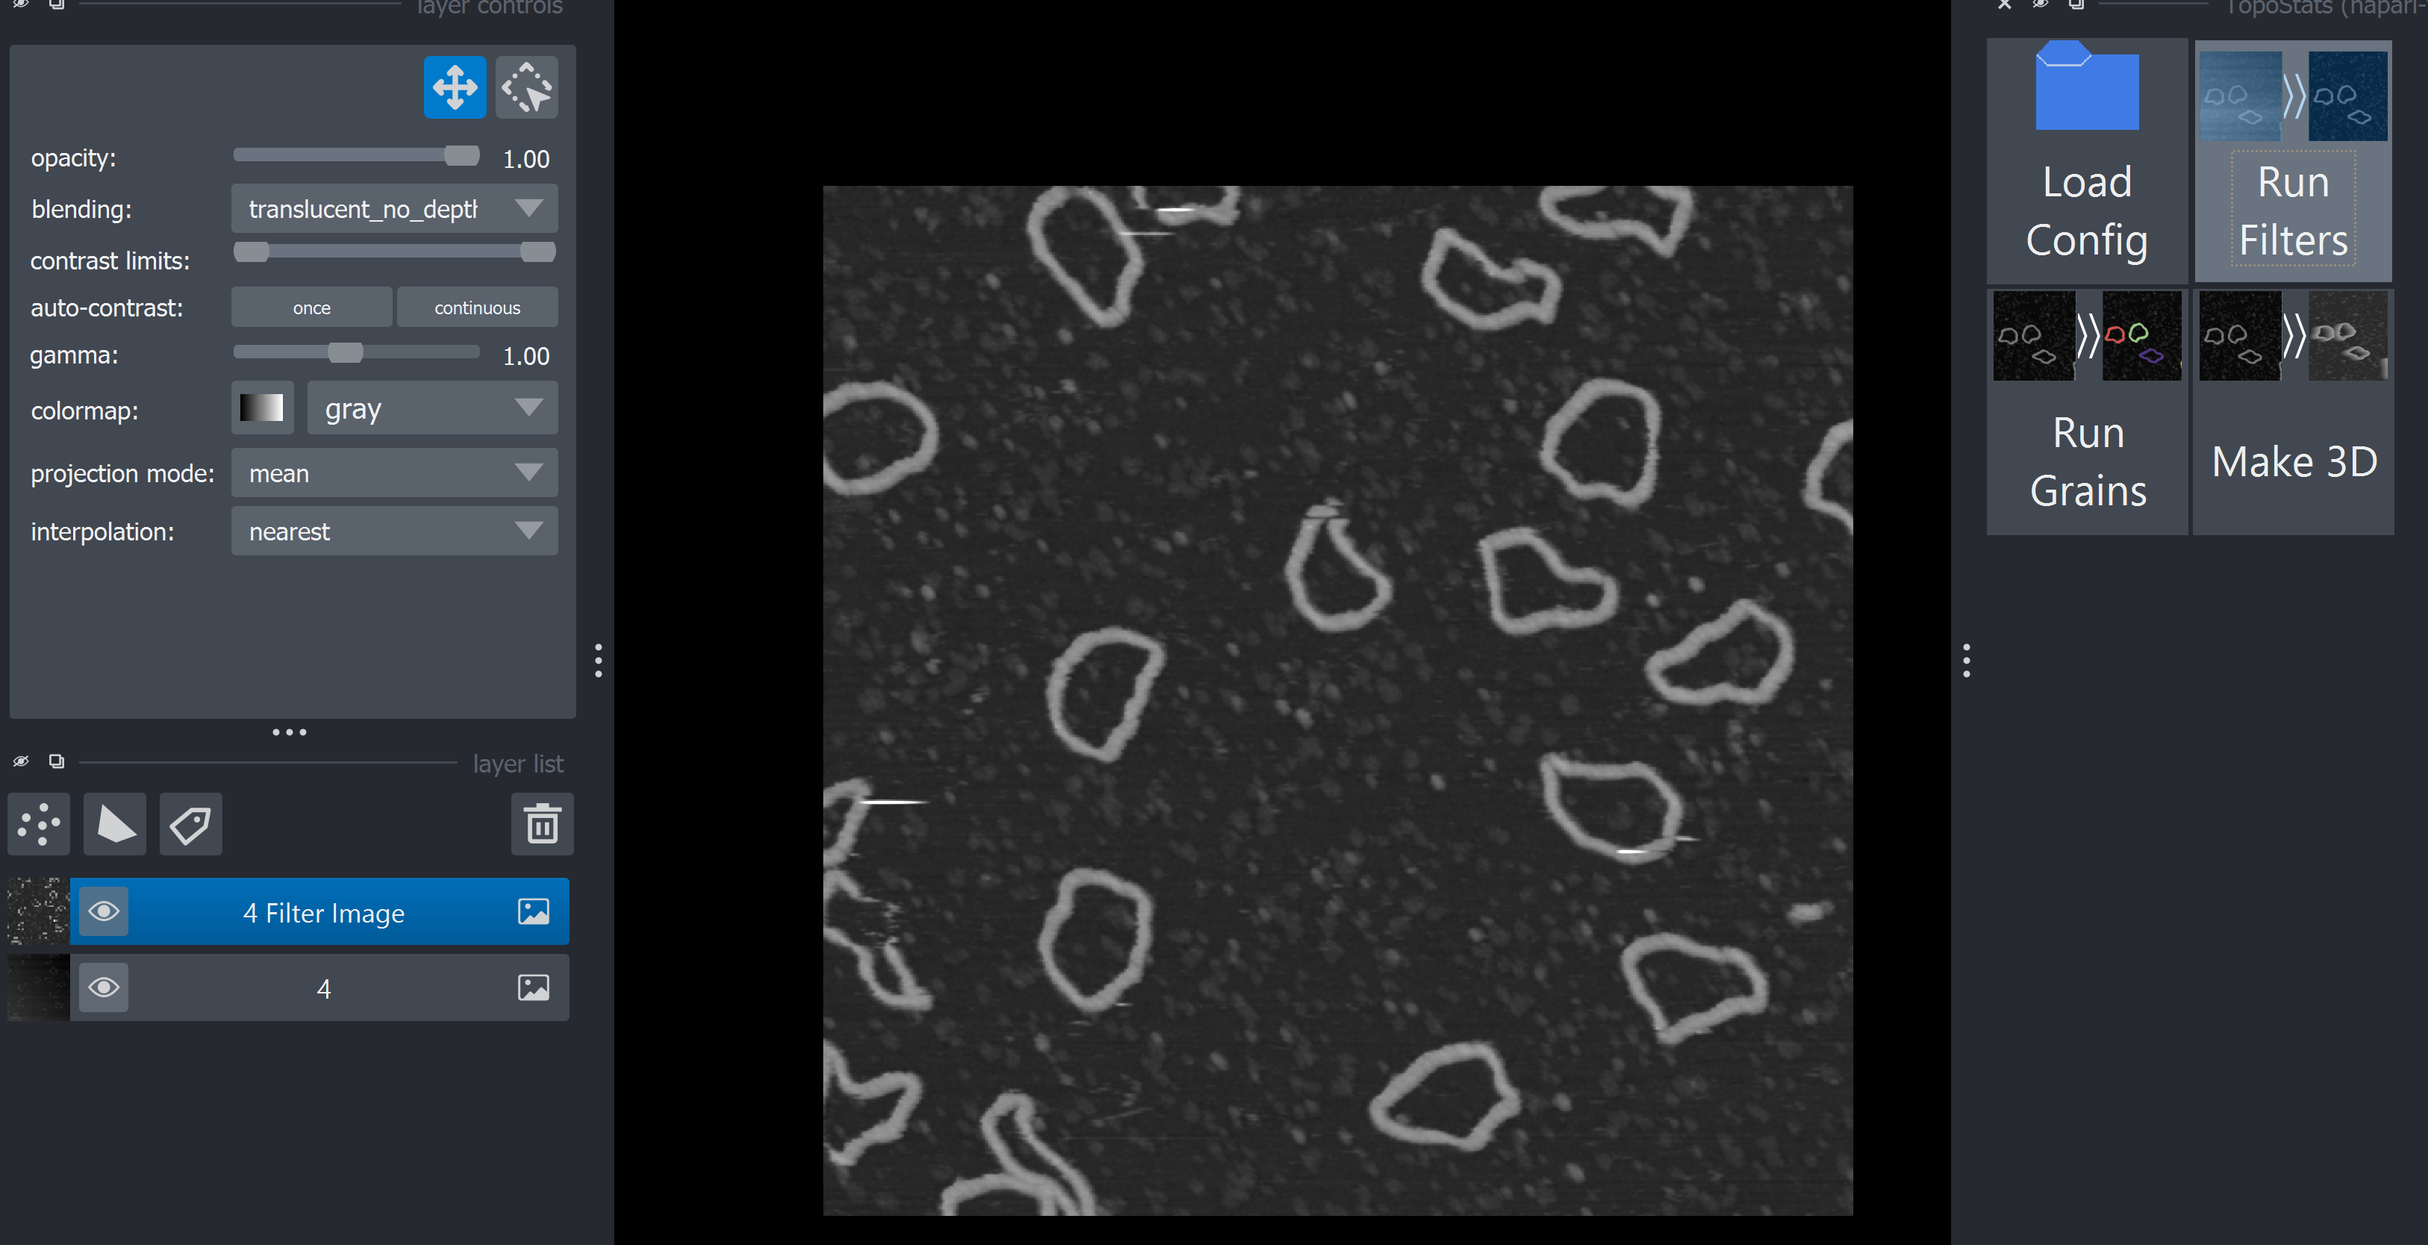
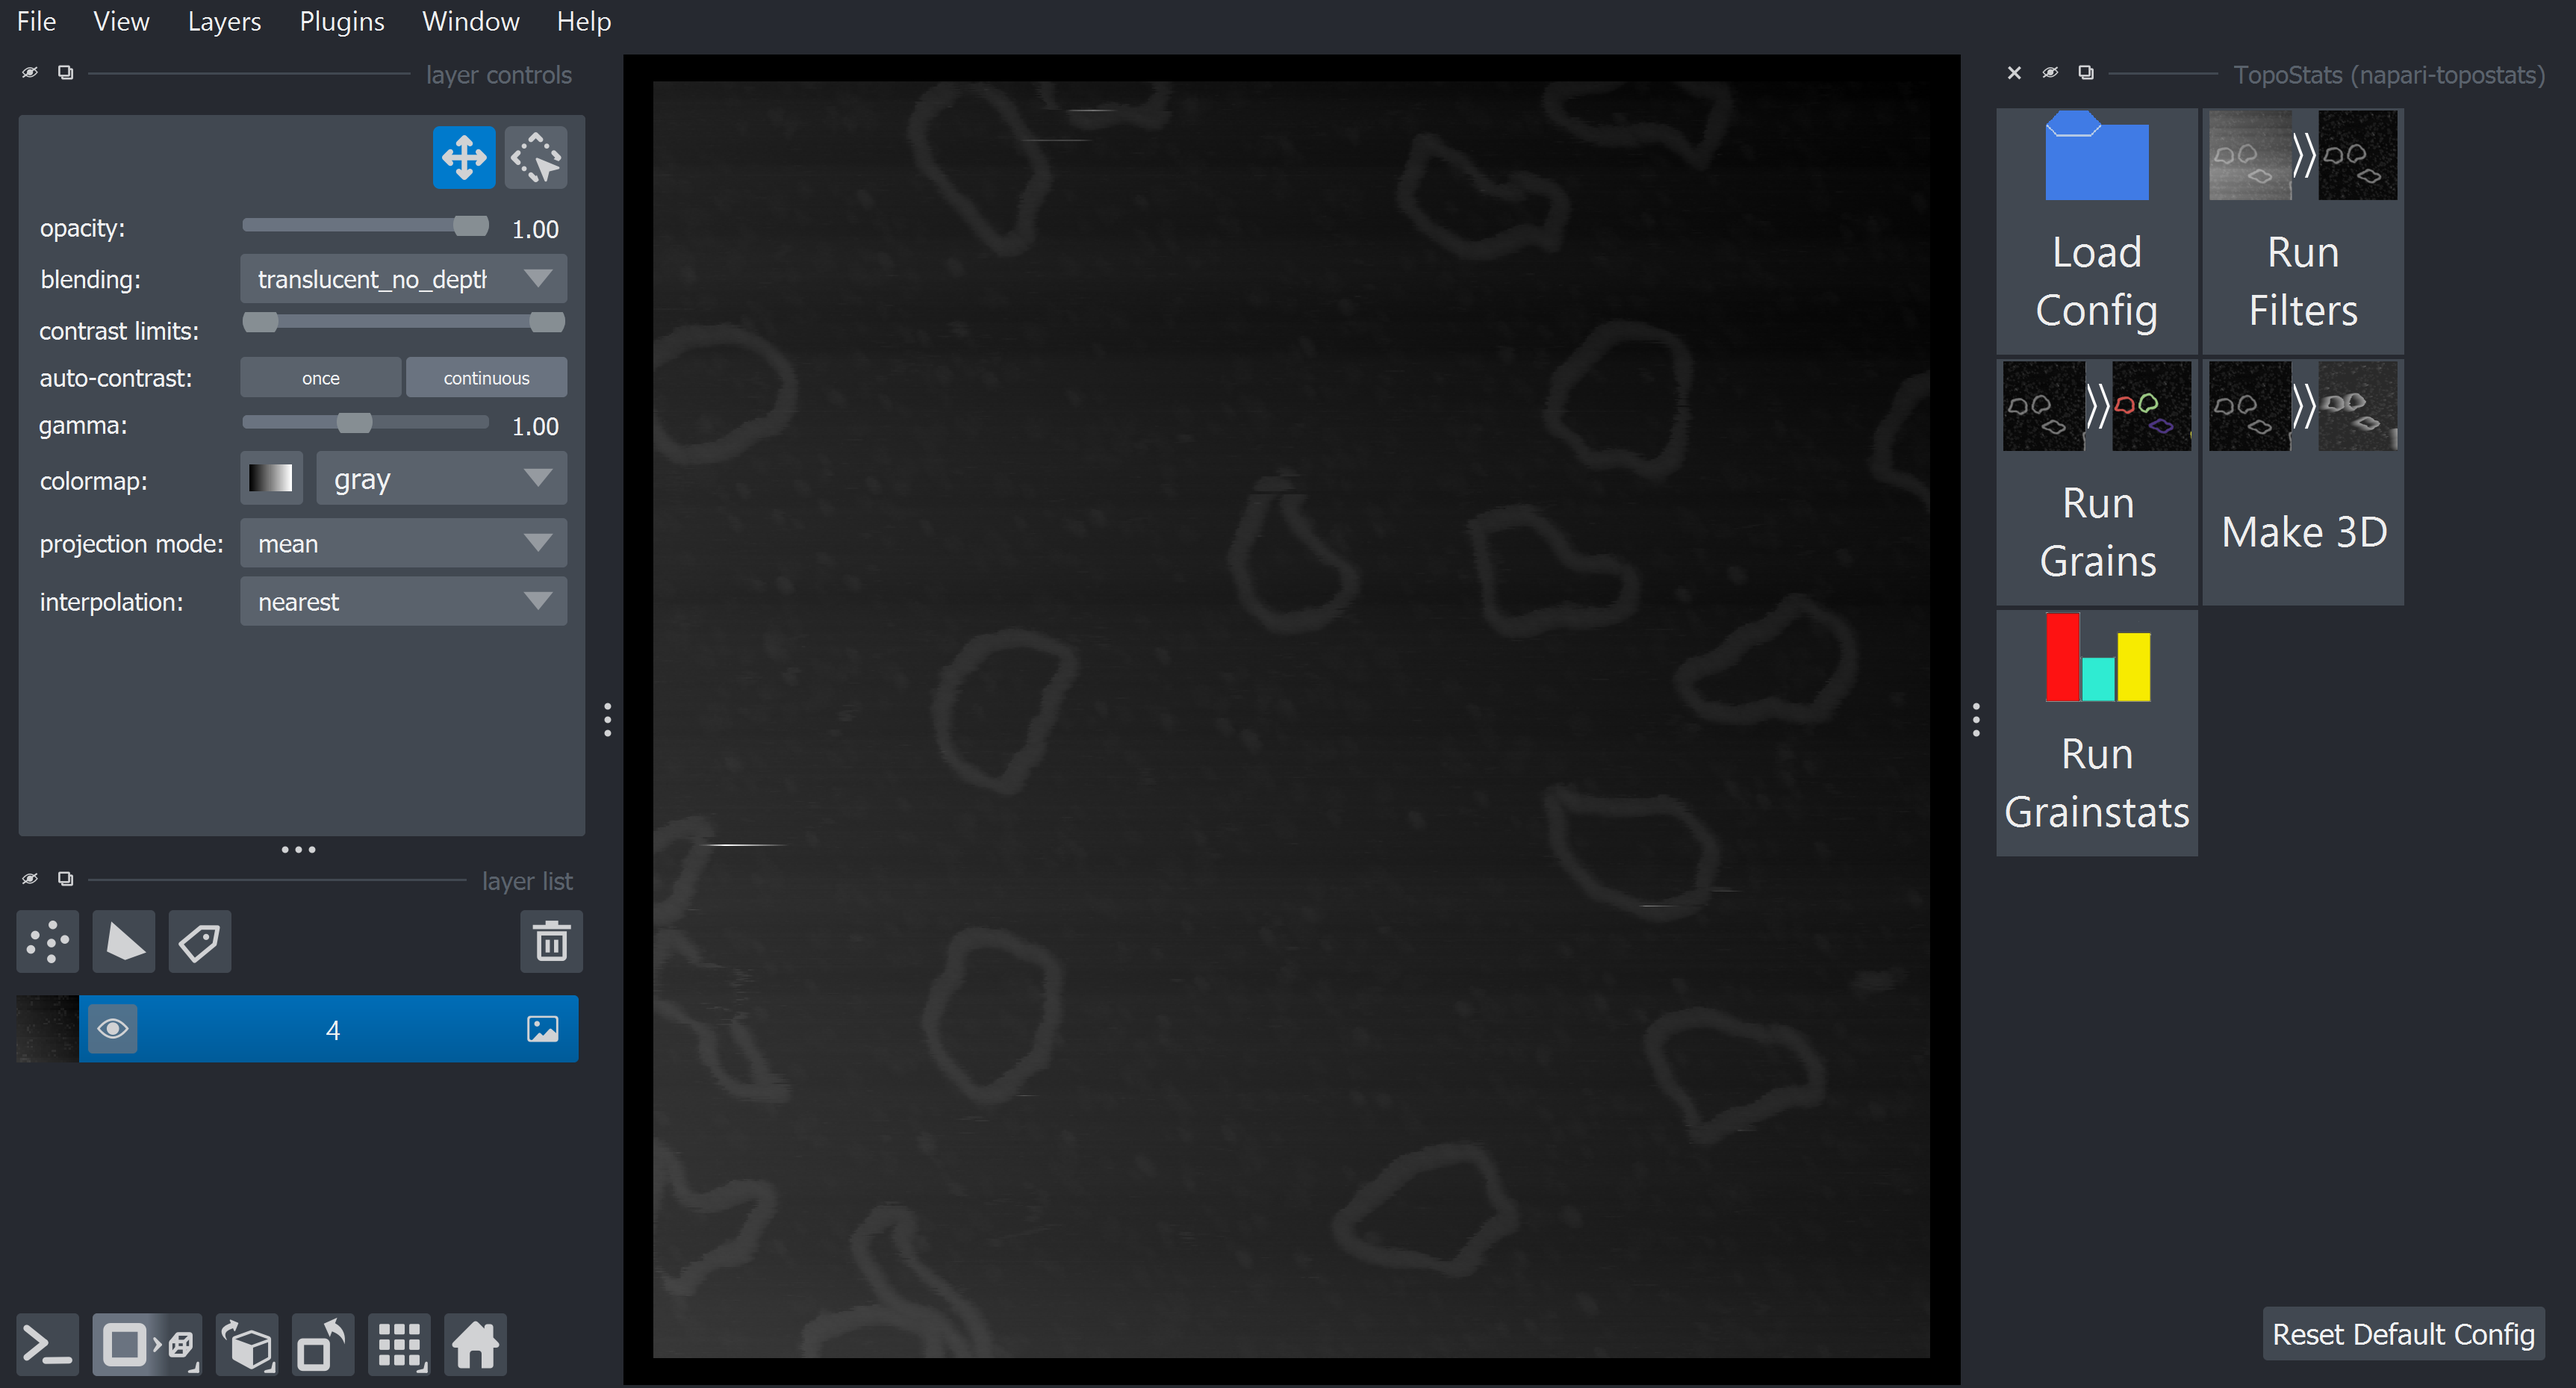
Updates to readme

diff --git a/src/napari_topostats/_alerts.py b/src/napari_topostats/_alerts.py
@@ -114,8 +114,6 @@ def show_error_dialog(
             f"\nThis error is potentially caused in the TopoStats package rather than in the Napari "
             f"front-end you are using.\nPlease report your issue at {NAPARI_TOPOSTATS_REPORT}."
         )
-    else:
-        message += f"\nYou can report this error at {NAPARI_TOPOSTATS_REPORT}"
 
     print(f"Error: {message}")
 

diff --git a/src/napari_topostats/_io.py b/src/napari_topostats/_io.py
@@ -183,7 +183,9 @@ def _load_config_impl(
         return
 
     comment_descriptions = extract_inline_comments(config_path)
-
+    if config is None:
+        show_error_dialog("Please select a file containing valid config data.")
+        return False
     config_wrapper = ConfigWrapper(config)
 
     full_config_container = build_dynamic_widget(

diff --git a/README.md b/README.md
@@ -39,31 +39,32 @@ You can then run napari with:
 
 ## Usage
 
-Topostats tools can be accessed from the toolbar of napari (top left) as shown.
-![Toolbar](readme_images/toolbar.png)
 To load an image into the napari viewer, drag and drop your image file into the window.
 A small window will open prompting you to input the input channel for the image you are loading.
 Enter the channel used by your image (e.g. Height). The loaded image will appear as a layer in the GUI.
 ![Input channel window](readme_images/input_channel_window.png)
+Topostats tools can be accessed from the toolbar of napari (top left) as shown.
+![Toolbar](readme_images/toolbar.png)
 This will then open a window containing buttons with available functions.
 Select a layer, then click the button corresponding to the function you want to run on the layer.
 ![Button Grid](readme_images/button_grid.png)
 Before running the function, you can choose to load a config file using the button and selecting the file.
 Both json and yaml file formats are supported.
 This config will be used for the functions you run until you close napari.
+There is also a button to save that file as the new default (instead of the topostats generated one). This default can
+be reset to the topostats default at anytime by clicking the Reset
+Default Config button in the bottom right of the main window.
 ![Loading a config file](readme_images/config_file.png)
-If you don't load a config file manually, a default config file ("_generated_config.yaml") is created in your current
-directory (when you run a function) which will then be used for all subsequent functions. If you edit this yaml file,
-your changes will be overwritten by the default config values when the file is generated again if a config isn't
-loaded, so it is not recommended that you edit that file!
+If you don't load a config file manually, a default config file ("_generated_config.yaml") is created (in your user config directory for napari topostats) when you run a function which will then be used for all subsequent functions.
 Once a config is loaded, either manually or automatically, an edit config window will appear, allowing the config file
 to be edited directly through the napari gui. Changes made are not automatically saved to the loaded config file,
 however, the updated config file can be saved as a file with the Save to file button at the bottom of the window.
+In this window, there is also a button to save the editted config file as the new default.
 ![Edit config window](readme_images/edit_config_window.png)
 When you run a function for the first time, a window will open with options to adjust for that function
 (which are applied next time the function is run) if that function has options which can be adjusted.
-There is also a run button in that window. This runs the function on the selected layer (it does exactly th
-same thing as clicking the function button in the grid).
+There is also a run button in that window. This runs the function on the selected layer (it does exactly the
+same thing as clicking the function button in the grid). Note this window will only appear if there are options which can be adjusted outside of those in the config file.
 ![Function window](readme_images/function_window.png)
 
 Current functions:
